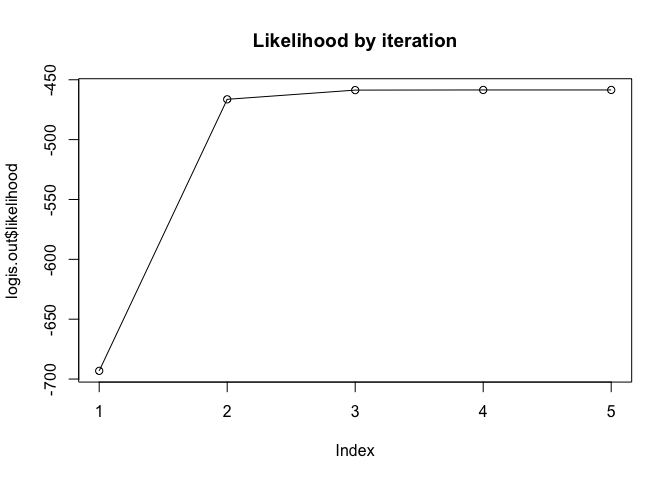
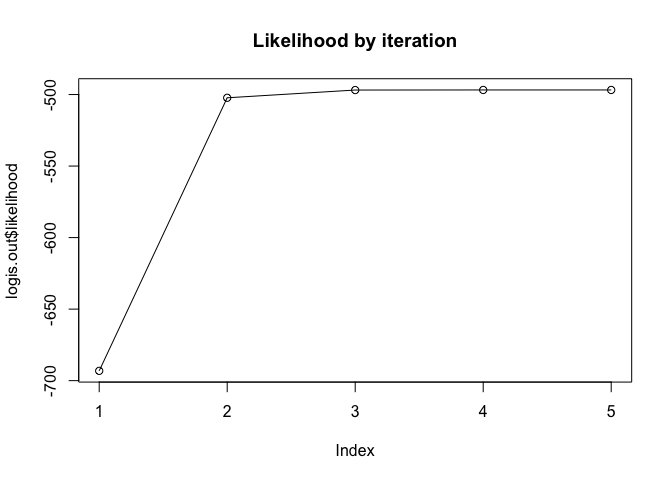
edit

diff --git a/School/Linear_Model/Logistic_Outlier_Detection/Logit_Out_Detect.md b/School/Linear_Model/Logistic_Outlier_Detection/Logit_Out_Detect.md
@@ -83,17 +83,10 @@ logis.out=logis.fun(y.vec,x.mat,iter.print = T)
 ```
 
     ## [1] "iteration : 1 / LL: -693.147180559945"
-<<<<<<< HEAD
-    ## [1] "iteration : 2 / LL: -466.336845573508"
-    ## [1] "iteration : 3 / LL: -458.641141687298"
-    ## [1] "iteration : 4 / LL: -458.513776133183"
-    ## [1] "iteration : 5 / LL: -458.513711590502"
-=======
-    ## [1] "iteration : 2 / LL: -498.505172247799"
-    ## [1] "iteration : 3 / LL: -493.625665358762"
-    ## [1] "iteration : 4 / LL: -493.581102002365"
-    ## [1] "iteration : 5 / LL: -493.581095514577"
->>>>>>> 4582a9ce1453d32d244e3af80a46b4036703a899
+    ## [1] "iteration : 2 / LL: -502.276724759812"
+    ## [1] "iteration : 3 / LL: -496.866214822904"
+    ## [1] "iteration : 4 / LL: -496.802109112767"
+    ## [1] "iteration : 5 / LL: -496.802094277469"
 
 ``` r
 plot(logis.out$likelihood,type="o",main="Likelihood by iteration")
@@ -105,31 +98,17 @@ plot(logis.out$likelihood,type="o",main="Likelihood by iteration")
 logis.out$coefs
 ```
 
-<<<<<<< HEAD
     ##              [,1]
-    ##  [1,]  1.07074506
-    ##  [2,]  0.46684848
-    ##  [3,]  0.76751809
-    ##  [4,] -0.08162379
-    ##  [5,]  0.18686796
-    ##  [6,] -0.18296779
-    ##  [7,]  0.45215547
-    ##  [8,] -0.22459729
-    ##  [9,]  0.36519691
-    ## [10,]  0.30677974
-=======
-    ##               [,1]
-    ##  [1,]  0.894748835
-    ##  [2,] -0.237928854
-    ##  [3,]  0.221349810
-    ##  [4,] -0.074857127
-    ##  [5,]  0.201175048
-    ##  [6,]  0.004494866
-    ##  [7,]  0.346994893
-    ##  [8,]  0.663242788
-    ##  [9,]  0.036598452
-    ## [10,]  0.756296081
->>>>>>> 4582a9ce1453d32d244e3af80a46b4036703a899
+    ##  [1,]  1.40660990
+    ##  [2,]  0.61141684
+    ##  [3,]  0.40170433
+    ##  [4,] -0.03484373
+    ##  [5,]  0.47110349
+    ##  [6,]  0.29492321
+    ##  [7,] -0.28049938
+    ##  [8,]  0.13215914
+    ##  [9,]  0.18368525
+    ## [10,] -0.37165576
 
 -   Compare with glm() function
 
@@ -138,17 +117,10 @@ xy.dat=as.data.frame(cbind(y.vec,x.mat))
 coef(glm(y.vec~.-1,data=xy.dat,family="binomial"))
 ```
 
-<<<<<<< HEAD
     ##          V2          V3          V4          V5          V6          V7 
-    ##  1.07074506  0.46684848  0.76751809 -0.08162379  0.18686796 -0.18296779 
+    ##  1.40660990  0.61141684  0.40170433 -0.03484373  0.47110349  0.29492321 
     ##          V8          V9         V10         V11 
-    ##  0.45215547 -0.22459729  0.36519691  0.30677974
-=======
-    ##           V2           V3           V4           V5           V6           V7 
-    ##  0.894748835 -0.237928854  0.221349810 -0.074857127  0.201175048  0.004494866 
-    ##           V8           V9          V10          V11 
-    ##  0.346994893  0.663242788  0.036598452  0.756296081
->>>>>>> 4582a9ce1453d32d244e3af80a46b4036703a899
+    ## -0.28049938  0.13215914  0.18368525 -0.37165576
 
 **2. Outlier Detection(GPOD)**
 ------------------------------
@@ -325,7 +297,6 @@ out.result$del.hat
     ## [19,] -0.6190935
     ## [20,] -0.8197142
 
-<<<<<<< HEAD
 -   Check Accuracy
 
 ``` r
@@ -363,10 +334,9 @@ sum(acc.vec)/length(acc.vec)
 
     ## [1] 1
 
-#### tuning 
-=======
+#### tuning ---
+
 -   tuning
->>>>>>> 4582a9ce1453d32d244e3af80a46b4036703a899
 
 ``` r
 res.list=data.frame(lambda=NA,bic=NA)
@@ -395,11 +365,7 @@ res.list$bic
 plot(res.list$lambda,res.list$bic,main="BIC with lambda",type="o")
 ```
 
-<<<<<<< HEAD
 ![](Logit_Out_Detect_files/figure-markdown_github/unnamed-chunk-14-1.png)
-=======
-![](Logit_Out_Detect_files/figure-markdown_github/unnamed-chunk-13-1.png)
->>>>>>> 4582a9ce1453d32d244e3af80a46b4036703a899
 
 ``` r
 res.list$lambda[which.min(res.list$bic)]
@@ -462,7 +428,6 @@ out.result$del.hat==0
     ## [18,]  TRUE
     ## [19,] FALSE
     ## [20,] FALSE
-<<<<<<< HEAD
 
 -   Check Accuracy
 
@@ -500,5 +465,3 @@ sum(acc.vec)/length(acc.vec)
 ```
 
     ## [1] 0.95
-=======
->>>>>>> 4582a9ce1453d32d244e3af80a46b4036703a899
